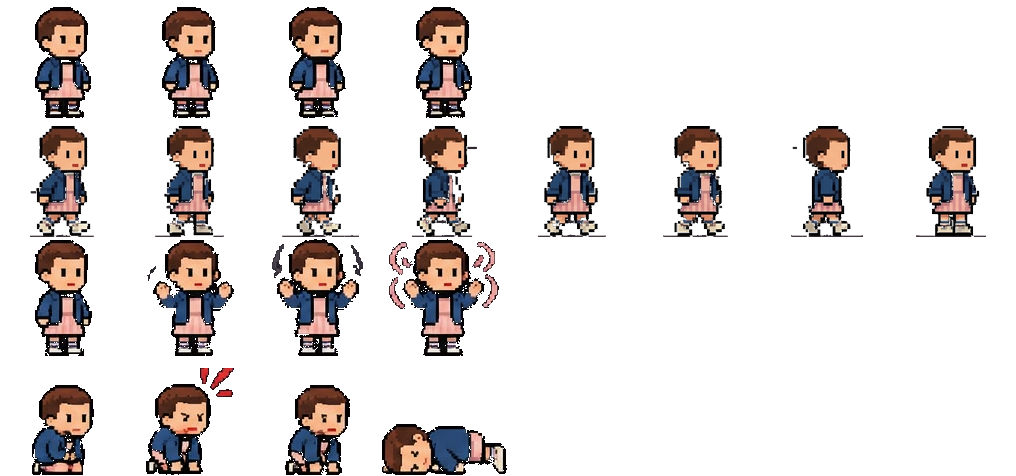
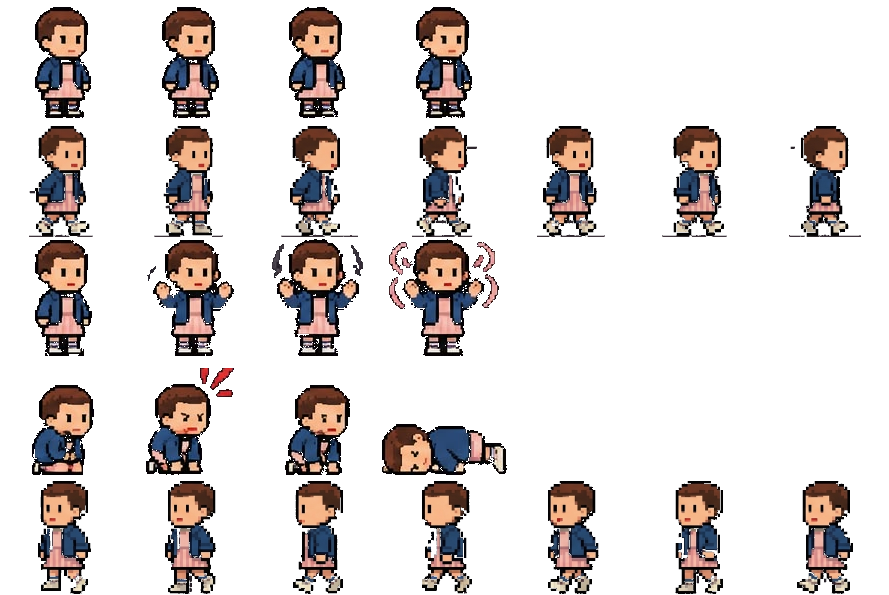
Animaciones de andar nuevas para Will, Eleven, Mike, Dustin y Steve (fila izquierda propia, sin frames de parada)

diff --git a/js/game.js b/js/game.js
@@ -384,7 +384,10 @@ function playerPose(p) {
     return ['talk', hot ? 2 : 1];
   }
   if (!p.onGround) return [id === 'steve' ? 'run' : 'walk', 2];
-  if (mv) return id === 'steve' ? ['run', Math.floor(p.animT * 11) % 4] : ['walk', Math.floor(p.animT * Math.max(10, ATLAS[id].anims.walk.n * p.c.speed / 90)) % ATLAS[id].anims.walk.n]; // el ritmo sigue a la velocidad: los pies no patinan
+  if (mv) { // el ritmo sigue a la velocidad: los pies no patinan
+    const an = id === 'steve' ? 'run' : 'walk', n = ATLAS[id].anims[an].n;
+    return [an, Math.floor(p.animT * Math.max(10, n * p.c.speed / 90)) % n];
+  }
   return ['idle', Math.floor(p.animT * 4) % 4];
 }
 
@@ -948,8 +951,11 @@ function drawPlayer(p, camX) {
   if (p.inv > 0 && !p.dead && Math.floor(p.inv * 14) % 2 === 0) return;
   const [a, f] = playerPose(p);
   ctx.fillStyle = 'rgba(0,0,0,.35)'; ctx.beginPath(); ctx.ellipse(x, GROUND + 2, 20, 5, 0, 0, 7); ctx.fill();
-  if (p.bindT > 0) { ctx.save(); ctx.shadowColor = '#ff2060'; ctx.shadowBlur = 18; sprite(p.id, a, f, x, p.y, p.c.sc, p.face < 0); ctx.restore(); }
-  else sprite(p.id, a, f, x, p.y, p.c.sc, p.face < 0);
+  // al mirar a la izquierda se usa la fila "Walk ←" de la hoja (anim + 'L'); si no existe, se voltea la de la derecha
+  let an = a, flipP = p.face < 0;
+  if (flipP && ATLAS[p.id].anims[a + 'L']) { an = a + 'L'; flipP = false; }
+  if (p.bindT > 0) { ctx.save(); ctx.shadowColor = '#ff2060'; ctx.shadowBlur = 18; sprite(p.id, an, f, x, p.y, p.c.sc, flipP); ctx.restore(); }
+  else sprite(p.id, an, f, x, p.y, p.c.sc, flipP);
   if (p.melee > 0 && p.melee < 0.28) { // estela del bate
     const prog = 1 - p.melee / 0.36;
     ctx.save(); ctx.translate(x + p.face * 38, p.y - 56); ctx.scale(p.face, 1);

diff --git a/js/atlas.js b/js/atlas.js
@@ -19,6 +19,10 @@ window.ATLAS = {
    "other": {
     "row": 3,
     "n": 7
+   },
+   "walkL": {
+    "row": 4,
+    "n": 6
    }
   }
  },
@@ -64,7 +68,7 @@ window.ATLAS = {
    },
    "walk": {
     "row": 1,
-    "n": 8
+    "n": 7
    },
    "power": {
     "row": 2,
@@ -73,6 +77,10 @@ window.ATLAS = {
    "other": {
     "row": 3,
     "n": 4
+   },
+   "walkL": {
+    "row": 4,
+    "n": 7
    }
   }
  },
@@ -87,7 +95,7 @@ window.ATLAS = {
    },
    "walk": {
     "row": 1,
-    "n": 4
+    "n": 7
    },
    "talk": {
     "row": 2,
@@ -96,13 +104,17 @@ window.ATLAS = {
    "other": {
     "row": 3,
     "n": 4
+   },
+   "walkL": {
+    "row": 4,
+    "n": 7
    }
   }
  },
  "dustin": {
   "img": "assets/dustin.png",
   "cw": 123,
-  "ch": 122,
+  "ch": 123,
   "anims": {
    "idle": {
     "row": 0,
@@ -110,7 +122,7 @@ window.ATLAS = {
    },
    "walk": {
     "row": 1,
-    "n": 4
+    "n": 7
    },
    "talk": {
     "row": 2,
@@ -119,6 +131,10 @@ window.ATLAS = {
    "other": {
     "row": 3,
     "n": 4
+   },
+   "walkL": {
+    "row": 4,
+    "n": 7
    }
   }
  },
@@ -133,11 +149,11 @@ window.ATLAS = {
    },
    "walk": {
     "row": 1,
-    "n": 5
+    "n": 6
    },
    "run": {
     "row": 2,
-    "n": 4
+    "n": 6
    },
    "attack": {
     "row": 3,
@@ -150,6 +166,14 @@ window.ATLAS = {
    "other": {
     "row": 5,
     "n": 4
+   },
+   "walkL": {
+    "row": 6,
+    "n": 6
+   },
+   "runL": {
+    "row": 7,
+    "n": 6
    }
   }
  },

diff --git a/sw.js b/sw.js
@@ -1,6 +1,6 @@
 /* Service worker: deja el juego instalable y jugable sin conexión.
  * Estrategia "stale-while-revalidate": sirve de la caché y actualiza en segundo plano. */
-const CACHE = 'stranger-slug-v7';
+const CACHE = 'stranger-slug-v8';
 const ASSETS = [
   './', 'index.html', 'manifest.webmanifest',
   'js/atlas.js', 'js/game.js', 'js/touch.js',

diff --git a/tools/build_assets.py b/tools/build_assets.py
@@ -109,12 +109,12 @@ def cut(crop, run, bg, thr=26, solid=False, boost=1.0):
         print('   (aviso) frame toca el borde vertical del recorte', 'arriba' if bb[1] <= 0 else 'abajo')
     return out.crop(bb)
 
-def sheet_frames(sheet, bg, box, n, thr=26):
+def sheet_frames(sheet, bg, box, n, thr=26, scrub=True):
     img = Image.open(os.path.join(SRC, sheet)).convert('RGB')
     # borra la rejilla del panel: sus píxeles son grises apagados (el personaje no usa grises medios)
     x0, y0, x1, y1 = box
     px = img.load()
-    for y in range(max(0, y0 - 16), min(img.height, y1 + 16)):
+    for y in range(max(0, y0 - 16), min(img.height, y1 + 16) if scrub else 0):
         for x in range(max(0, x0 - 16), min(img.width, x1 + 16)):
             c = px[x, y]
             if 66 <= min(c) and max(c) <= 112 and max(c) - min(c) <= 20 and c[0] >= c[1] - 2: px[x, y] = bg
@@ -122,10 +122,10 @@ def sheet_frames(sheet, bg, box, n, thr=26):
     return [thin_clean(fr) for fr in (cut(crop, r, bg, thr) for r in runs) if fr is not None]
 
 def head_x(fr):
-    """ancla de los frames de andar: centro de la cabeza (parte alta), que apenas se mueve en el ciclo;
+    """ancla de los frames de andar: centro de cabeza y tronco (8%-45% de la altura), que apenas se mueven en el ciclo;
     así el cuerpo no tiembla al cambiar de frame como con el centro del recuadro"""
     a = fr.getchannel('A').load(); w, h = fr.size
-    xs = [x for y in range(int(h * 0.30)) for x in range(w) if a[x, y]]
+    xs = [x for y in range(int(h * 0.08), int(h * 0.45)) for x in range(w) if a[x, y]]
     return sum(xs) / len(xs) if xs else w / 2
 
 def thin_clean(fr, passes=2, opening=True):
@@ -177,21 +177,34 @@ def build_char(name, sheet, bg, rows, thr=26, blank=(), solid=False, boost=1.0, 
         k = idle_h / h0
         items = [(a, i, fr.resize((max(1, round(fr.width*k)), max(1, round(fr.height*k))), Image.LANCZOS), ax*k) for a, i, fr, ax in items]
         print(f'  escala {name}: x{k:.3f}')
+    extra = []
     if override:  # animaciones reemplazadas por frames de otra hoja, escalados a la altura del idle
         h_idle = next(fr.height for a, i, fr, _ in items if a == 'idle' and i == 0)
-        for anim, (osheet, obg, obox, on) in override.items():
-            frs = sheet_frames(osheet, obg, obox, on)
-            k = h_idle / sorted(f.height for f in frs)[len(frs)//2]
-            items = [it for it in items if it[0] != anim]
-            for i, fr in enumerate(frs):
-                fr = fr.resize((max(1, round(fr.width*k)), max(1, round(fr.height*k))), Image.NEAREST if k >= 1 else Image.BOX)
-                items.append((anim, i, fr, head_x(fr)))
-            print(f'  {name}.{anim}: {len(frs)} frames nuevos de {osheet}, escala x{k:.3f}')
+        for anim, ov in override.items():
+            osheet, obg, obox, on = ov['sheet'], ov['bg'], ov['box'], ov['n']
+            kw = dict(thr=ov.get('thr', 26), scrub=ov.get('scrub', True))
+            drop = set(ov.get('drop', ()))   # frames "de pie" (pies juntos) que harían parar el ciclo
+            right = [f for i, f in enumerate(sheet_frames(osheet, obg, obox, on, **kw)) if i not in drop]
+            k = h_idle / sorted(f.height for f in right)[len(right)//2]
+            sets = {anim: right}
+            if ov.get('left'):  # fila "Walk ←" de la hoja: se usa tal cual (sin voltear) al mirar a la izquierda
+                left = [f for i, f in enumerate(sheet_frames(osheet, obg, ov['left'], on, **kw)) if i not in drop]
+                # si faltan fotogramas a la izquierda, se rellenan con el espejo de los de la derecha (y al revés)
+                while len(left) < len(right): left.append(right[len(left)].transpose(Image.FLIP_LEFT_RIGHT))
+                while len(right) < len(left): right.append(left[len(right)].transpose(Image.FLIP_LEFT_RIGHT))
+                sets = {anim: right, anim + 'L': left[:len(right)]}
+            for an, frs in sets.items():
+                items = [it for it in items if it[0] != an]
+                if an not in rows and an not in extra: extra.append(an)
+                for i, fr in enumerate(frs):
+                    fr = fr.resize((max(1, round(fr.width*k)), max(1, round(fr.height*k))), Image.NEAREST if k >= 1 else Image.BOX)
+                    items.append((an, i, fr, head_x(fr)))
+                print(f'  {name}.{an}: {len(frs)} frames nuevos de {osheet}, escala x{k:.3f}')
     half = max(max(ax, fr.width-ax) for _, _, fr, ax in items)
     cw = int(half*2)+2
     ch = max(fr.height for _, _, fr, _ in items)+2
     anims = {}
-    order = list(rows.keys())
+    order = list(rows.keys()) + extra
     maxn = max(sum(1 for it in items if it[0] == a) for a in order)
     atlas = Image.new('RGBA', (cw*maxn, ch*len(order)), (0, 0, 0, 0))
     for r, a in enumerate(order):
@@ -212,7 +225,7 @@ atlas['will'] = build_char('will', 'will.png', (21, 16, 24), {
     'walk':  ((635, 538, 1450, 690), 6, 'c'),
     'shoot': ((40, 768, 712, 925), 5, ('l', 52)),
     'other': ((735, 764, 1520, 925), 7, 'c'),
-}, idle_h=80, override={'walk': ('Gemini_Generated_Image_5lqkgz5lqkgz5lqk.jpeg', (26, 25, 31), (60, 88, 1230, 335), 6)}, blank=[(40, 490, 215, 540), (625, 490, 790, 540), (40, 712, 250, 764), (745, 712, 975, 764)])
+}, idle_h=80, override={'walk': dict(sheet='Gemini_Generated_Image_5lqkgz5lqkgz5lqk.jpeg', bg=(26, 25, 31), box=(60, 88, 1230, 335), left=(40, 495, 1230, 745), n=6)}, blank=[(40, 490, 215, 540), (625, 490, 790, 540), (40, 712, 250, 764), (745, 712, 975, 764)])
 atlas['demogorgon'] = build_char('demogorgon', 'demogorgon.png', (19, 18, 25), {
     'idle':   ((45, 452, 595, 595), 4, 'c'),
     'walk':   ((622, 452, 1490, 595), 6, 'c'),
@@ -228,21 +241,21 @@ atlas['eleven'] = build_char('eleven', E, DARK, {
     'walk':  ((1040, 305, 1510, 430), 4, 'c'),
     'power': ((1040, 460, 1510, 590), 4, 'c'),
     'other': ((1040, 640, 1510, 760), 4, 'c'),
-}, override={'walk': ('Gemini_Generated_Image_ohbt8iohbt8iohbt.jpeg', (26, 24, 27), (234, 128, 1326, 356), 8)})
+}, override={'walk': dict(sheet='Gemini_Generated_Image_ohbt8iohbt8iohbt.jpeg', bg=(26, 24, 27), box=(234, 128, 1326, 356), left=(234, 450, 1326, 676), n=8, drop=[7])})
 # --- Mike (WA0027)
 atlas['mike'] = build_char('mike', 'IMG-20261121-WA0027.jpg', DARK, {
     'idle':  ((1045, 160, 1510, 285), 4, 'c'),
     'walk':  ((1045, 305, 1510, 430), 4, 'c'),
     'talk':  ((1045, 460, 1510, 590), 4, 'c'),
     'other': ((1045, 640, 1510, 760), 4, 'c'),
-})
+}, override={'walk': dict(sheet='Gemini_Generated_Image_51s8a251s8a251s8.jpeg', bg=(97, 83, 106), box=(215, 108, 1345, 358), left=(215, 430, 1345, 688), n=8, thr=38, scrub=False, drop=[7])})
 # --- Dustin (WA0028)
 atlas['dustin'] = build_char('dustin', 'IMG-20261121-WA0028.jpg', DARK, {
     'idle':  ((1045, 160, 1510, 285), 4, 'c'),
     'walk':  ((1045, 305, 1510, 430), 4, 'c'),
     'talk':  ((1045, 460, 1510, 590), 4, 'c'),
     'other': ((1045, 640, 1510, 760), 4, 'c'),
-})
+}, override={'walk': dict(sheet='Gemini_Generated_Image_w28qzlw28qzlw28q.jpeg', bg=(25, 20, 27), box=(205, 108, 1345, 352), left=(205, 420, 1345, 684), n=8, drop=[7])})
 # --- Steve (WA0029)
 S = 'IMG-20261121-WA0029.jpg'
 atlas['steve'] = build_char('steve', S, DARK, {
@@ -252,7 +265,8 @@ atlas['steve'] = build_char('steve', S, DARK, {
     'attack': ((40, 810, 560, 955), 5, ('l', 40)),
     'hurt':   ((595, 825, 985, 955), 4, 'c'),
     'other':  ((1020, 815, 1440, 955), 4, 'c'),
-})
+}, override={'walk': dict(sheet='Gemini_Generated_Image_k77auqk77auqk77a.jpeg', bg=(24, 18, 28), box=(222, 96, 1345, 370), left=(225, 437, 1345, 700), n=7, drop=[6]),
+              'run': dict(sheet='Gemini_Generated_Image_k77auqk77auqk77a.jpeg', bg=(24, 18, 28), box=(222, 96, 1345, 370), left=(225, 437, 1345, 700), n=7, drop=[6])})
 # --- Vecna (vicna.png): hoja nueva de 8 frames por animación, sin reescalado suave (nítido)
 def build_vecna(sheet='vicna.png', bg=(11, 8, 11), target_h=176):
     img = Image.open(os.path.join(SRC, sheet)).convert('RGB')
